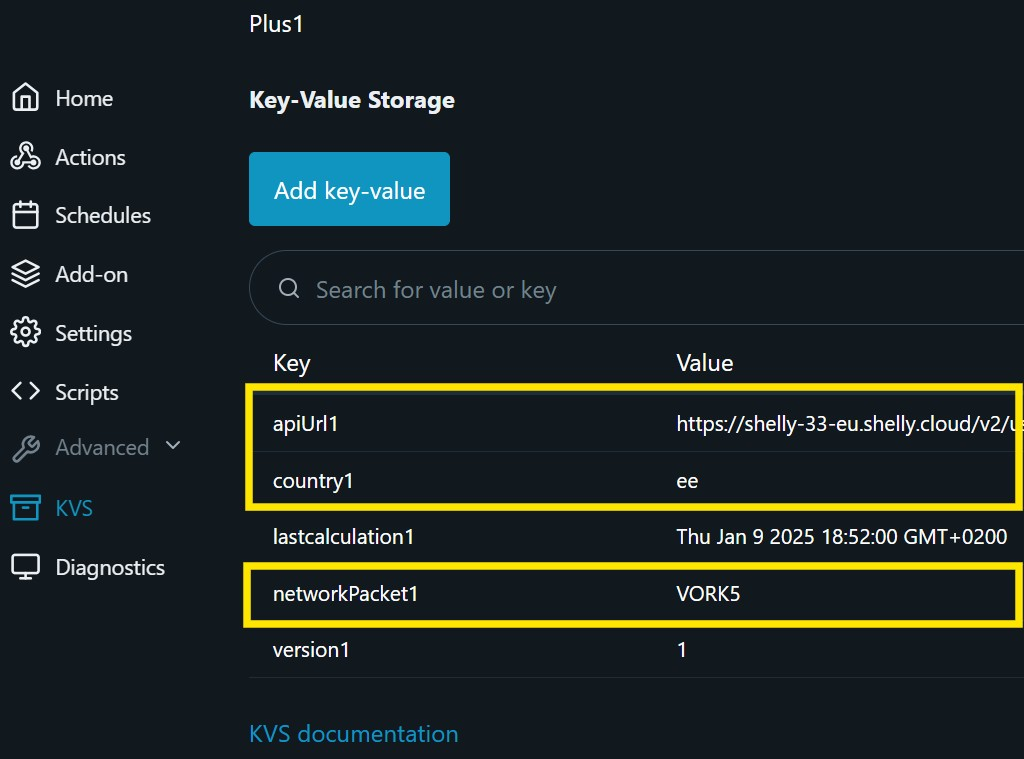
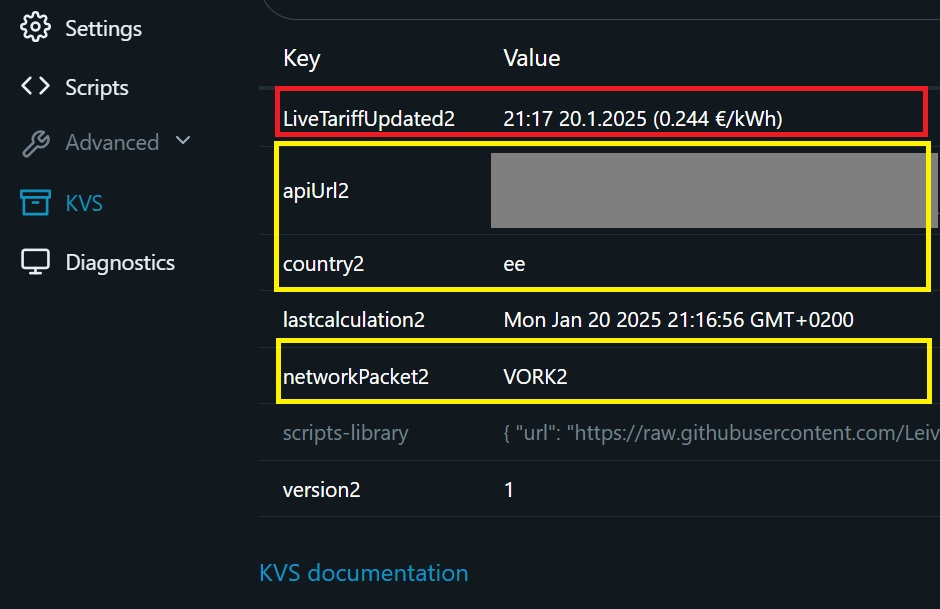
Readme updated. Including device configuration and cost monitoring scenarios.

diff --git a/README.md b/README.md
@@ -1,6 +1,23 @@
 # Shelly Live Tariff Script
 
-This feature allows you to view the exact cost of your entire home's electricity usage if you have a Shelly Pro 3EM installed.
+This feature allows you to view the exact cost of your electricity usage if you have any Shelly power monitoring device installed.
+
+- [Shelly Live Tariff Script](#shelly-live-tariff-script)
+  - [Features](#features)
+  - [Installation](#installation)
+      - [New installation](#new-installation)
+      - [Reinstall](#reinstall)
+      - [Script Configuration](#script-configuration)
+      - [Live Tariff Configuration](#live-tariff-configuration)
+  - [Usage](#usage)
+    - [Device configuration](#device-configuration)
+    - [Cost monitoring](#cost-monitoring)
+    - [Script Monitoring](#script-monitoring)
+  - [Network Packages](#network-packages)
+  - [Supported Countries](#supported-countries)
+  - [License](#license)
+  - [Author](#author)
+
 
 <img src="images/TotalEnergyUsage.jpg" alt="Shelly Live Tariff" width="500">
 
@@ -16,30 +33,83 @@ This Shelly script automates electricity tariffs in the Shelly cloud by retrievi
 
 ## Installation
 
+#### New installation
+
 1. Copy the contents of `ShellyLiveTariff.js` to your Shelly device's script editor.
 2. Configure the following settings:
    - `networkPacket`: Choose the appropriate network package (e.g., `VORK2`, `Partner24`, etc.).
    - `country`: Set the country code (e.g., `ee` for Estonia, `fi` for Finland, etc.).
    - `apiUrl`: Set your Shelly Cloud token.
 
+#### Reinstall
+
+To initiate **reinstallation** of the script, navigate to the KVS store and delete the parameter ``version``. After the script starts, it performs a clean installation.
+
+#### Script Configuration 
+
 Shelly Gen2 Pro and Gen3 devices support **Virtual Components**, with all settings managed directly through the Shelly web page or mobile app.
 
-<img src="images/ShellyVirtualCompLiveTariff.jpg" alt="Enable Shelly Live Tariff" width="400">
+<img src="images/ShellyVirtualCompLiveTariff.jpg" alt="Enable Shelly Live Tariff" width="300">
 
 Older Shelly devices (Gen2) support the **KVS store**, and their settings can be modified via the device's web page using its IP address: Menu → Advanced → KVS.
 
 <img src="images/KvsLiveTariff.jpg" alt="Enable Shelly Live Tariff" width="400">
 
-3. Configure Shelly cloud to use Live Tariff
-   1. Open Shelly web portal
-   2. Select Energy -> Electricity Tariff
-   3. Under Tariff select Live
-   4. Copy API URL and paste it to Live Tariff settings.
+#### Live Tariff Configuration
 
-<img src="images/EnableShellyLiveTariff.jpg" alt="Enable Shelly Live Tariff" width="750">
+Configure Shelly cloud to use Live Tariff
+1. Open Shelly web portal 
+2. Select Energy -> Electricity Tariff
+3. Under Tariff select Live
+4. Copy API URL and paste it to Live Tariff settings.
 
+<img src="images/EnableShellyLiveTariff.jpg" alt="Enable Shelly Live Tariff" width="650">
 
 ## Usage
+
+### Device configuration
+
+There are various ways to configure Shelly devices to ensure the Shelly Cloud energy measurement and cost reports appears accurate and well-organized.
+
+1. Shelly Pro 3EM + Individual Shelly Power Monitoring Devices in the Same Room. <br>
+To avoid double-counting energy costs at the room or total account level, devices must be configured properly:
+   - Configure Shelly Pro 3EM to include power monitoring in both the room and total account levels.
+   - Configure other Shelly monitoring devices in the same room to exclude their data from the total room and total account energy.
+
+<img src="images/Configure3EM.jpg" alt="Shelly Live Tariff" width="200">
+<img src="images/ConfigureDevice.jpg" alt="Shelly Live Tariff" width="200">
+
+2. Shelly Pro 3 EM at Account level + Individual Shelly Power Monitoring Devices in the Different Rooms. <br>
+To avoid missing energy costs at the room or double-counting at the total account level, devices must be configured properly:
+   - Configure Shelly Pro 3EM to include power monitoring in total account level.
+   - Configure other Shelly monitoring devices to include their data fom the total room and exclude from total account energy.
+
+<img src="images/Configure3EM.jpg" alt="Shelly Live Tariff" width="200">
+<img src="images/ConfigureDeviceRoom.jpg" alt="Shelly Live Tariff" width="200">
+
+3. Individual Shelly Power Monitoring Devices in the Different Rooms. Account level measurement is missing. <br>
+To avoid missing energy costs at the total account level, devices must be configured properly:
+   - Configure every Shelly monitoring devices to include power monitoring in both the room and total account levels.
+  
+### Cost monitoring
+
+There are many ways to explore the electricity usage cost. 
+
+1. **Total Cost.** Open the Shelly Cloud [Total Energy history](https://control.shelly.cloud/#/cons/0) to explore the total cost across your entire energy usage.
+<img src="images/TotalEnergyUsage.jpg" alt="Shelly Live Tariff" width="500">
+
+2. **Room Cost.** Open the Shelly Cloud [Total Energy history](https://control.shelly.cloud/#/cons/0) and scroll down to explore the energy cost for any individual room.
+<img src="images/RoomUsage.jpg" alt="Shelly Live Tariff" width="500">
+
+3. **Phase Cost.** This feature is available only if you have a Shelly Pro 3EM. Open the Shelly device consumption page and hover over the graph with your mouse or finger to explore the individual phase and total energy costs passing through the device. 
+<img src="images/3EMUsage.jpg" alt="Shelly Live Tariff" width="500">
+
+4. **Device Cost.** Open the consumption page of any power monitoring Shelly device to explore the cost at the device level. 
+<img src="images/EnergyUsageCost.jpg" alt="Enable Shelly Live Tariff" width="300">
+
+### Script Monitoring 
+- The field ``Live Tariff updated`` in Virtual Components and KVS is updated whenever the tariff is sent to the Shelly Live Tariff cloud.
+- The field ``lastcalculation`` in KVS is updated whenever electricity prices are pulled from Elering.
 
 - The script will automatically run and update the Shelly Cloud Live Tariffs on an hourly basis.
 - To modify user settings, access the Shelly KVS via the Shelly web page: Menu → Advanced → KVS.

diff --git a/Readme-ET.md b/Readme-ET.md
@@ -2,6 +2,23 @@
 
 Selle skripti abil saate vaadata oma koduse elektritarbimise täpset maksumust Shelly Cloudis kui teil on paigaldatud Shelly Pro 3EM.
 
+- [Shelly Live Tariff Script](#shelly-live-tariff-script)
+  - [Omadused](#omadused)
+  - [Paigaldamine](#paigaldamine)
+      - [Uus paigaldus](#uus-paigaldus)
+      - [Uuendamine](#uuendamine)
+      - [Skripti häälestamine](#skripti-häälestamine)
+      - [Shelly Live Tariff häälestamine](#shelly-live-tariff-häälestamine)
+  - [Kasutamine](#kasutamine)
+    - [Shelly häälestamine](#shelly-häälestamine)
+    - [Rahalise kulu monitoorimine](#rahalise-kulu-monitoorimine)
+    - [Skripti monitoorimine](#skripti-monitoorimine)
+  - [Võrgupaketid](#võrgupaketid)
+  - [Toetatud Riigid](#toetatud-riigid)
+  - [Litsents](#litsents)
+  - [Autor](#autor)
+
+
 <img src="images/TotalEnergyUsage.jpg" alt="Shelly Live Tariff" width="500">
 
 ## Omadused
@@ -16,29 +33,82 @@ See Shelly skript automatiseerib elektritariifi Shelly pilves. Elektri börsihin
 
 ## Paigaldamine
 
+#### Uus paigaldus
 1. Kopeerige `ShellyLiveTariff.js` sisu oma Shelly seadme skriptiredaktorisse.
 2. Konfigureerige järgmised seaded:
    - `networkPacket`: Valige sobiv võrgupakett (nt `VORK2`, `Partner24` jne).
    - `country`: Määrake riigi kood (nt `ee` Eesti jaoks, `fi` Soome jaoks jne).
    - `apiUrl`: Siia pange oma Shelly Cloud token.
 
+#### Uuendamine
+
+Skripti uuesti installeerimise alustamiseks kustutage KVS-i parameeter ``version``. Pärast skripti käivitamist tehakse puhas paigaldus.
+
+#### Skripti häälestamine
+
 Shelly Gen2 Pro ja Gen3 seadmed toetavad **Virtuaalseid Komponente**, kõiki seadeid saab hallata otse Shelly Cloud veebilehelt või mobiilirakendusest.
 
-<img src="images/ShellyVirtualCompLiveTariff.jpg" alt="Enable Shelly Live Tariff" width="400">
+<img src="images/ShellyVirtualCompLiveTariff.jpg" alt="Enable Shelly Live Tariff" width="300">
 
 Vanemad Shelly seadmed (Gen2) toetavad **KVS keskkonda**, nende seadeid saab muuta seadme veebilehe kaudu, kasutades selle IP-aadressi: Menu → Advanced → KVS.
 
 <img src="images/KvsLiveTariff.jpg" alt="Enable Shelly Live Tariff" width="400">
 
-1. Konfigureerige Shelly Cloud kasutama Live Tariffi
-   1. Avage Shelly Cloud keskkond
-   2. Valige Energy → Electricity Tariff
-   3. Tariffi all valige Live
-   4. Kopeerige API URL ja kleepige see skripti Live Tariffi seadistustesse.
+#### Shelly Live Tariff häälestamine
+
+Konfigureerige Shelly Cloud kasutama Live Tariffi
+1. Avage Shelly Cloud keskkond
+2. Valige Energy → Electricity Tariff
+3. Tariffi all valige Live
+4. Kopeerige API URL ja kleepige see skripti Live Tariffi seadistustesse.
 
 <img src="images/EnableShellyLiveTariff.jpg" alt="Enable Shelly Live Tariff" width="750">
 
 ## Kasutamine
+
+### Shelly häälestamine
+
+Shelly seadmete seadistamiseks on mitmeid viise, et tagada Shelly Cloudi energiatarbimise kulude aruannete täpsus ja korrastatus.
+
+1. Shelly Pro 3EM + Individuaalsed Shelly energia monitooringu seadmed asuvad samas ruumis. <br>
+Et vältida energiakulude topeltarvestust ruumi või konto tasemel, tuleb seadmed õigesti seadistada:
+   - Seadista Shelly Pro 3EM, et see kaasaks energiaseire nii ruumi kui ka konto tasemel.
+   - Seadista teised Shelly seadmed samas ruumis nii, et need välistaksid oma andmed ruumi ja konto kogutarbimisest.
+
+<img src="images/Configure3EM.jpg" alt="Shelly Live Tariff" width="200">
+<img src="images/ConfigureDevice.jpg" alt="Shelly Live Tariff" width="200">
+
+2. Shelly Pro 3EM konto tasemel + Individuaalsed Shelly monitooringu seadmed erinevates ruumides. <br>
+Et vältida energiakulu puudumist ruumis või topeltarvestust konto tasemel, tuleb seadmed õigesti seadistada:
+   - Seadista Shelly Pro 3EM, et see kaasaks energiaseire konto tasemel.
+   - Seadista teised Shelly seadmed, et need kaasaksid andmed ruumi tasemel ja välistaksid need konto kogutarbimisest.
+
+<img src="images/Configure3EM.jpg" alt="Shelly Live Tariff" width="200">
+<img src="images/ConfigureDeviceRoom.jpg" alt="Shelly Live Tariff" width="200">
+
+3. Individuaalsed Shelly energia monitooringu seadmed erinevates ruumides, konto taseme mõõtmine puudub. <br>
+Et vältida energiakulude puudumist konto tasemel, tuleb seadmed õigesti seadistada:
+   - Seadista iga Shelly seade, et see kaasaks energiaseire nii ruumi kui ka konto tasemel.
+
+### Rahalise kulu monitoorimine
+
+Elektri kulu monitoorimiseks on mitu võimalust.
+
+1. **Kogukulu.** Ava Shelly Cloud [Total Energy history](https://control.shelly.cloud/#/cons/0) ja vaata kui suur on elektri kulu rahas kõikide Shelly seadmete peale kokku.
+<img src="images/TotalEnergyUsage.jpg" alt="Shelly Live Tariff" width="500">
+
+2. **Ruumi kulu.** Ava Shelly Cloud [Total Energy history](https://control.shelly.cloud/#/cons/0), keri veidi allapoole ja vaata kui suur on iga üksiku ruumi elektrikulu rahas. 
+<img src="images/RoomUsage.jpg" alt="Shelly Live Tariff" width="500">
+
+3. **Faasi kulu.** See võimalus on ainult Shelly Pro 3EM omanikel. Ava Shelly elektrikulu vaheleht ja liigu hiire või näpuga üle graafiku, et näha iga iseseisva faasi või ka kogu seadet läbiva elektri rahalist kulu.
+<img src="images/3EMUsage.jpg" alt="Shelly Live Tariff" width="500">
+
+4. **Seadme kulu.** Ava mõni energiamõõturiga Shelly seadme  elektrikulu vaheleht ja tutvu selle seadme rahalise kuluga. Nii saad vaadata detailselt näiteks oma külmiku töös hoidmise rahalist kulu. 
+<img src="images/EnergyUsageCost.jpg" alt="Enable Shelly Live Tariff" width="300">
+
+### Skripti monitoorimine 
+- Väli ``Live Tariff updated`` uuendatakse Virtual Komponentide ja KVS-s sel hetkel kui uus Live Tariff on saadetud Shelly Cloudi.
+- Väli ``lastcalculation`` KVS-s kuvab Eleringist börsihindade saamise kuupäeva ja kellaaega.
 
 - Skript töötab automaatselt ja uuendab Shelly Cloud Live Tariffi iga tunni järel.
 - Kui teie Shelly seade toetab Virtuaalseid komponente, saate seadeid muuta otse Shelly veebilehelt või Shelly mobiilirakendusest.
